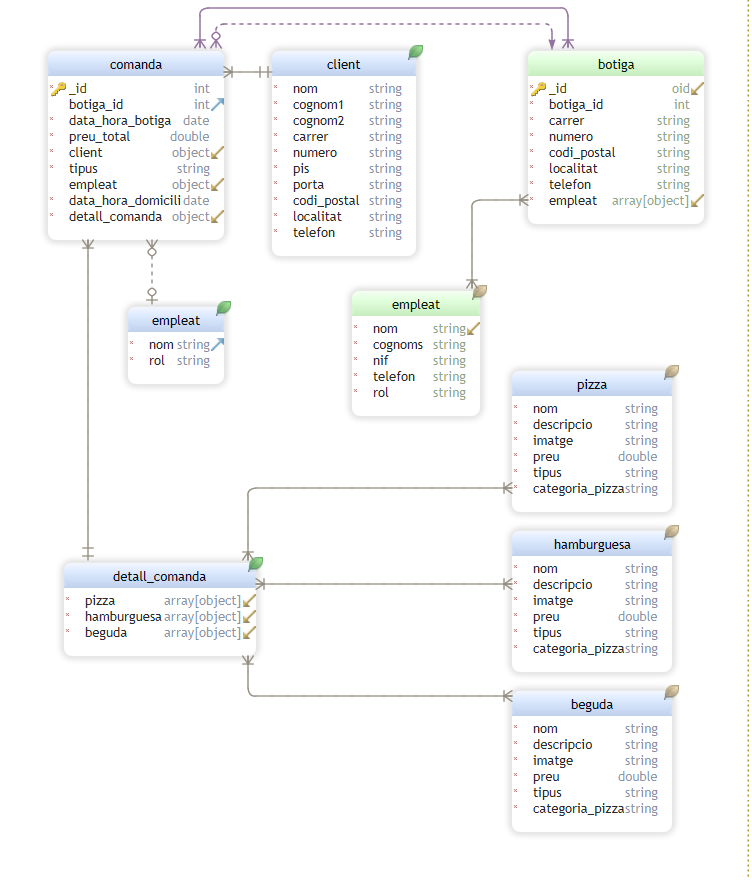
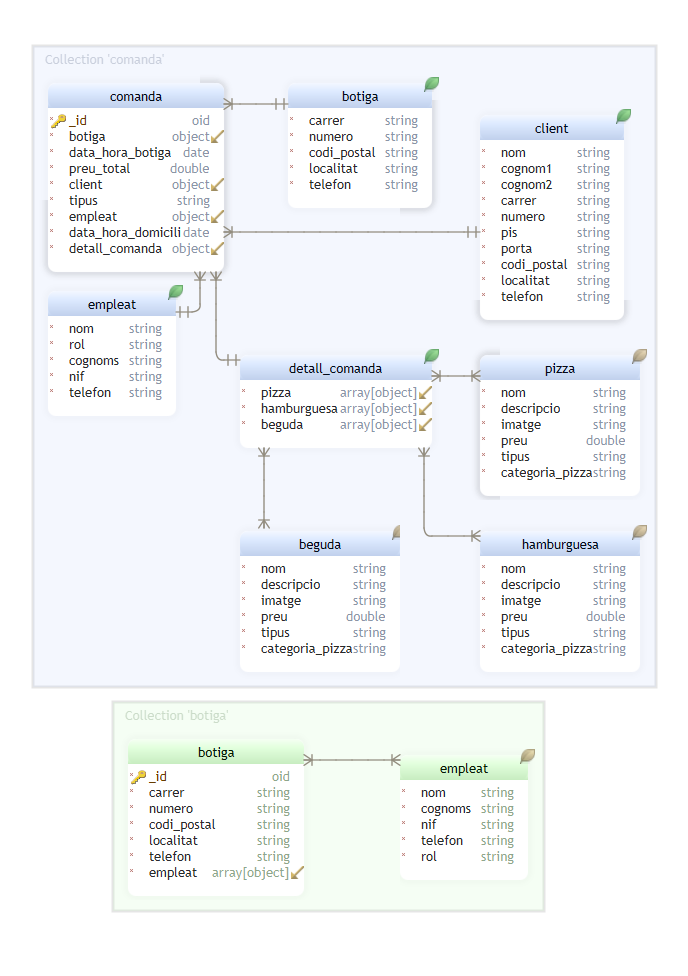
Model Pizzeria v3.0

diff --git a/pizzeria.js b/pizzeria.js
@@ -144,7 +144,6 @@ db.producte.insertMany([
 /* botiga i empleats */
 db.createCollection('botiga');
 db.botiga.insertOne({
-    botiga_id: 1,
     carrer: 'Avinguda Caresmar',
     numero: '23',
     codi_postal: '08700',
@@ -274,8 +273,13 @@ db.dades_client.insertMany([
 db.createCollection('comanda');
 db.comanda.insertMany([
     {
-        _id: 1,
-        botiga_id: 1,
+        botiga: {
+            carrer: 'Avinguda Caresmar',
+            numero: '23',
+            codi_postal: '08700',
+            localitat: 'Igualada',
+            telefon: '938053838',
+        },
         data_hora_botiga: ISODate('2020-05-18T19:45:12Z'),
         preu_total: 28.35,
         client: {
@@ -293,6 +297,9 @@ db.comanda.insertMany([
         tipus: 'repartiment a domicili',
         empleat: {
             nom: 'Albert',
+            cognoms: 'Compte Oriol',
+            nif: '98921097Y',
+            telefon: '697523748',
             rol: 'repartidor'
         },
         data_hora_domicili: ISODate('2020-05-10T22:15:00Z'),
@@ -328,7 +335,6 @@ db.comanda.insertMany([
         }
     },
     {
-        _id: 2,
         botiga: {
             carrer: 'Avinguda Caresmar',
             numero: '23',
@@ -351,10 +357,7 @@ db.comanda.insertMany([
             telefon: '699213515',
         },
         tipus: 'recollir en botiga',
-        'botiga.empleat': {
-            nom: "Albert",
-            rol: 'repartidor'
-        },
+        empleat: null,
         data_hora_domicili: null,
         detall_comanda: {
             pizza: [
@@ -397,7 +400,6 @@ db.comanda.insertMany([
         }
     },
     {
-        _id: 3,
         botiga: {
             carrer: 'Avinguda Caresmar',
             numero: '23',
@@ -420,8 +422,11 @@ db.comanda.insertMany([
             telefon: '687541827'
         },
         tipus: 'repartiment a domicili',
-        'botiga.empleat': {
+        empleat: {
             nom: 'Judit',
+            cognoms: 'Sans Poblet',
+            nif: '26507643M',
+            telefon: '621547813',
             rol: 'repartidor'
         },
         data_hora_domicili: ISODate('2020-06-21T20:52:08Z'),
@@ -450,7 +455,6 @@ db.comanda.insertMany([
         }
     },
     {
-        _id: 4,
         botiga: {
             carrer: 'Avinguda Caresmar',
             numero: '23',
@@ -473,9 +477,12 @@ db.comanda.insertMany([
             telefon: '618205849',
         },
         tipus: 'repartiment a domicili',
-        'botiga.empleat': {
+        empleat: {
             nom: 'Judit',
-            rol: 'repatidor'
+            cognoms: 'Sans Poblet',
+            nif: '26507643M',
+            telefon: '621547813',
+            rol: 'repartidor'
         },
         data_hora_domicili: ISODate('2020-10-02T20:18:38Z'),
         detall_comanda: {
@@ -520,7 +527,6 @@ db.comanda.insertMany([
         }
     },
     {
-        _id: 5,
         botiga: {
             carrer: 'Avinguda Caresmar',
             numero: '23',
@@ -543,8 +549,11 @@ db.comanda.insertMany([
             telefon: '624879245'
         },
         tipus: 'repartiment a domicili',
-        'botiga.empleat': {
+        empleat: {
             nom: 'Judit',
+            cognoms: 'Sans Poblet',
+            nif: '26507643M',
+            telefon: '621547813',
             rol: 'repartidor'
         },
         data_hora_domicili: ISODate('2020-10-30T21:56:02Z'),
@@ -573,7 +582,6 @@ db.comanda.insertMany([
         }
     },
     {
-        _id: 6,
         botiga: {
             carrer: 'Avinguda Caresmar',
             numero: '23',
@@ -596,8 +604,11 @@ db.comanda.insertMany([
             telefon: '699458785'
         },
         tipus: 'repartiment a domicili',
-        'botiga.empleat': {
+        empleat: {
             nom: 'Albert',
+            cognoms: 'Compte Oriol',
+            nif: '98921097Y',
+            telefon: '697523748',
             rol: 'repartidor'
         },
         data_hora_domicili: ISODate('2020-11-05T20:29:50Z'),
@@ -626,7 +637,6 @@ db.comanda.insertMany([
         }
     },
     {
-        _id: 7,
         botiga: {
             carrer: 'Avinguda Caresmar',
             numero: '23',
@@ -649,8 +659,11 @@ db.comanda.insertMany([
             telefon: '691452387',
         },
         tipus: 'repartiment a domicili',
-        'botiga.empleat': {
+        empleat: {
             nom: 'Judit',
+            cognoms: 'Sans Poblet',
+            nif: '26507643M',
+            telefon: '621547813',
             rol: 'repartidor'
         },
         data_hora_domicili: ISODate('2020-12-02T20:13:02Z'),
